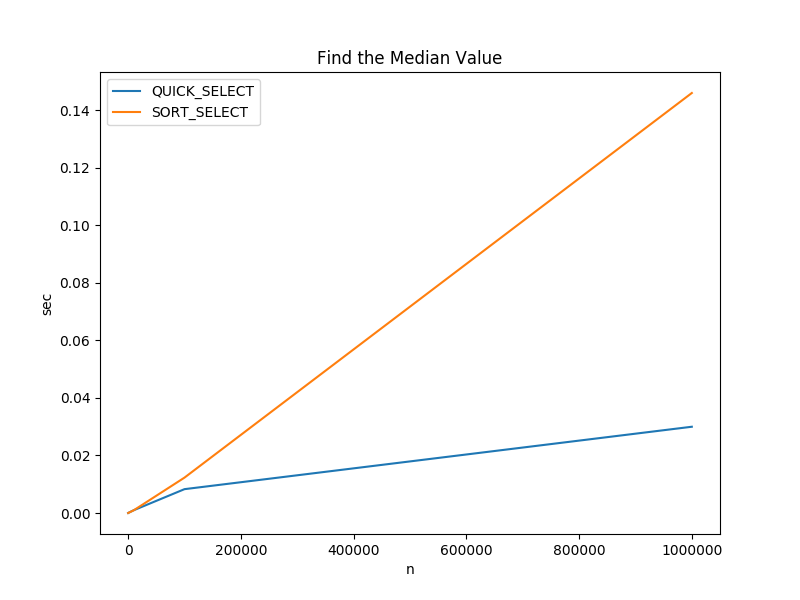
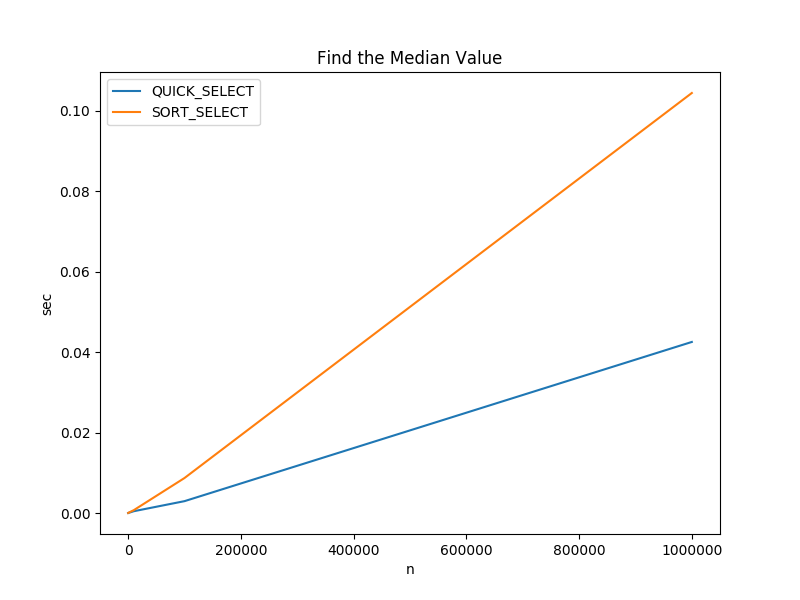
re-ran quick select run time charts

diff --git a/quick_select/c/quick_select_test.c b/quick_select/c/quick_select_test.c
@@ -303,7 +303,8 @@ static int partition_suite()
 }
 
 /************* partition ****************/
-static void max_test() {
+static void max_test()
+{
     const size_t n = 6;
     const int expected = 6;
     int arr[] = { 6, 5, 4, 3, 2, 1 };
@@ -312,10 +313,19 @@ static void max_test() {
 
     CU_ASSERT_PTR_NOT_NULL_FATAL(result);
     CU_ASSERT_EQUAL(0, memcmp(&expected, result, sizeof(arr[0]))); // NOLINT
-
 }
 
-static void min_test() {}
+static void min_test()
+{
+    const size_t n = 6;
+    const int expected = 1;
+    int arr[] = { 6, 5, 4, 3, 2, 1 };
+
+    void* result = min(n, sizeof(arr[0]), arr, int_comparator);
+
+    CU_ASSERT_PTR_NOT_NULL_FATAL(result);
+    CU_ASSERT_EQUAL(0, memcmp(&expected, result, sizeof(arr[0]))); // NOLINT
+}
 
 static int min_max_suite()
 {

diff --git a/quick_select/c/compare_times.py b/quick_select/c/compare_times.py
@@ -83,7 +83,7 @@ def generate_chart(nth):
     plt.xlabel('n')
 
     for algo in Algo:
-        print('running ', algo.name)
+        print('running {} {}'.format(algo.name, nth))
         sys.stdout.flush()
 
         data = []

diff --git a/quick_select/c/quick_select.c b/quick_select/c/quick_select.c
@@ -139,7 +139,7 @@ void* min(
 
     for (size_t i = 1; i < n; i++) {
         void* ith = (char*)arr + i * size;
-        if (comparator(min, ith) < 0)
+        if (comparator(min, ith) > 0)
             min = ith;
     }
 

diff --git a/README.md b/README.md
@@ -14,38 +14,41 @@ Build environments
 
 Implementation Quality
 * Several of the implementations utilize recursion. Recursion provides an
-elegant means of demonstrating algorithms; however, it causes stack overflow
-exceptions when the input is sufficiently large (in non-tail call optimized
-languages). For many purposes, this is not an issue; however, use in production
-scenarios should be thoroughly scrutinized.
-* Every attempt was made to ensure the quality of the implementations. For
-instance, each has associated unit tests. The C code is subjected to several
-clang sanitizers as well as clang tidy. However, this is not production
-hardened code.
-* Many of the tests and algorithms make use of the C's rand() function. For
-many reasons, this is not ideal. [Eternally
-Confused](http://www.eternallyconfuzzled.com/arts/jsw_art_rand.aspx) has a
-great article about what this is true. However, for the purposes of this
-project, it is sufficient.
+    elegant means of demonstrating algorithms; however, it causes stack overflow
+    exceptions when the input is sufficiently large (in non-tail call optimized
+    languages). For many purposes, this is not an issue; however, use in
+    production scenarios should be thoroughly scrutinized.
+* Every attempt was made to ensure the quality of the implementations. For 
+    instance, each has associated unit tests. The C code is subjected to several
+    clang sanitizers as well as clang tidy. However, this is not production
+    hardened code.
+* The C code makes extensive use of the `rand()` function. For many
+    reasons, this is not ideal. [Eternally
+    Confused](http://www.eternallyconfuzzled.com/arts/jsw_art_rand.aspx) has a
+    great article about what this is true. Furthermore, `rand()` is never
+    seeded. This ensures that the actual run time comparisons between algorithms
+    accepting randomly sorted arrays are using the exact same inputs.  For the
+    purposes of this project, `rand()` it is sufficient. However, a different
+    solution is required for production scenarios.
 
 Actual run time data
-* Actual run time data for the C implementations is included in each section. C
-was chosen as the language for showcasing run times because it executes
-"closest to the metal" and therefore provides the most accurate representation
-of an algorithm's run time. However, even though the actual run time will be
-different, the comparative difference between the run times should be
-commiserate in your language of choice.
-* Millisecond are close to non-consequential for most scenarios. Remember the
-words of the great Donald Knuth - "pre-mature optimization is the root of all
-evil."
+* Actual run time data for the C implementation of the algorithms is included 
+    in each section. C was chosen as the language for showcasing run times
+    because it executes "closest to the metal" and therefore provides the most
+    accurate representation of an algorithm's run time. However, even though the
+    actual run time wont be the same, the comparative difference between the run
+    times should be commiserate in your language of choice.
+* Milliseconds are close to non-consequential for most applications. Remember
+    the words of the great Donald Knuth - "pre-mature optimization is the root
+    of all evil."
 * The actual run-time is of little importance because it applies only to the
-machine on which the test was run. The intended purpose of providing the run
-time data is for comparison between algorithms.
+    machine on which the test was run. The intended purpose of providing the run
+    time data is for comparison between algorithms.
 * All run time data was collected using a docker container running on a Surface
-Book 2 Laptop (Intel Core i7, 16GB RAM).
+    Book 2 Laptop (Intel Core i7, 16GB RAM).
 * Each time value represents the median of 3 separate executions.
 * You can recreate the data using your own hardware by running the
-time_charts.sh bash script located in each c directory.
+    time_charts.sh bash script located in each c directory.
 
 ## Index
 

diff --git a/quick_select/README.md b/quick_select/README.md
@@ -15,8 +15,8 @@ algorithm and C's qsort are shown below.
 
 |ALGORITHM| n=100 |n=1000 |n=10000 |n=100000 |n=1000000 |
 --|--|--|--|--|--|
-|QUICK_SELECT |0.000006 sec|0.000026 sec|0.000196 sec|0.003316 sec|0.015870 sec|
-|SORT_SELECT |0.000008 sec|0.000159 sec|0.001267 sec|0.015303 sec|0.197968 sec|
+|QUICK_SELECT |0.000002 sec|0.000038 sec|0.000443 sec|0.002946 sec|0.042520 sec|
+|SORT_SELECT |0.000006 sec|0.000096 sec|0.000704 sec|0.008697 sec|0.104405 sec|
 
 &ast; For the purposes of this project, median is defined as simply the
 n/2<sup>th</sup> element.  Technically, if the array is odd sized, it should be
@@ -27,8 +27,8 @@ important in some contexts.
 
 |ALGORITHM| n=100 |n=1000 |n=10000 |n=100000 |n=1000000 |
 --|--|--|--|--|--|
-|QUICK_SELECT |0.000006 sec|0.000026 sec|0.000196 sec|0.003316 sec|0.015870 sec|
-|SORT_SELECT |0.000008 sec|0.000159 sec|0.001267 sec|0.015303 sec|0.197968 sec|
+|QUICK_SELECT |0.000006 sec|0.000011 sec|0.000074 sec|0.001099 sec|0.009004 sec|
+|SORT_SELECT |0.000004 sec|0.000082 sec|0.000707 sec|0.008884 sec|0.104003 sec|
 
 For the maximum/minimum value in an array, it's possible to do a simple linear
 scan while keeping track of the highest/lowest value. The result is shown below.
@@ -37,9 +37,9 @@ scan while keeping track of the highest/lowest value. The result is shown below.
 
 |ALGORITHM| n=100 |n=1000 |n=10000 |n=100000 |n=1000000 |
 --|--|--|--|--|--|
-|QUICK_SELECT |0.000005 sec|0.000018 sec|0.000492 sec|0.002872 sec|0.020482 sec|
-|SORT_SELECT |0.000009 sec|0.000113 sec|0.001254 sec|0.015291 sec|0.179286 sec|
-|LINEAR_SCAN_MIN |0.000001 sec|0.000003 sec|0.000027 sec|0.000256 sec|0.002649 sec|
+|QUICK_SELECT |0.000003 sec|0.000010 sec|0.000468 sec|0.002036 sec|0.023628 sec|
+|SORT_SELECT |0.000005 sec|0.000056 sec|0.000814 sec|0.008738 sec|0.103920 sec|
+|LINEAR_SCAN_MIN |0.000001 sec|0.000002 sec|0.000030 sec|0.000143 sec|0.001475 sec|
 
 Key Takeaway: 
 - *Quick Select* and *Linear Scan* are both O(n) algorithms. Obviously, they do
